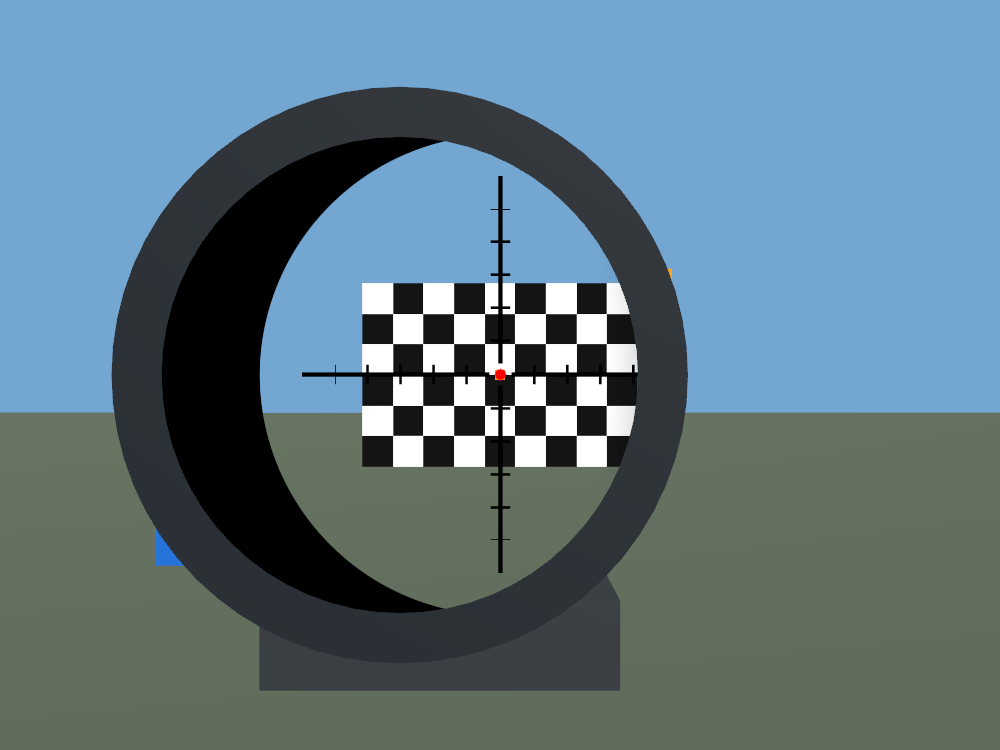
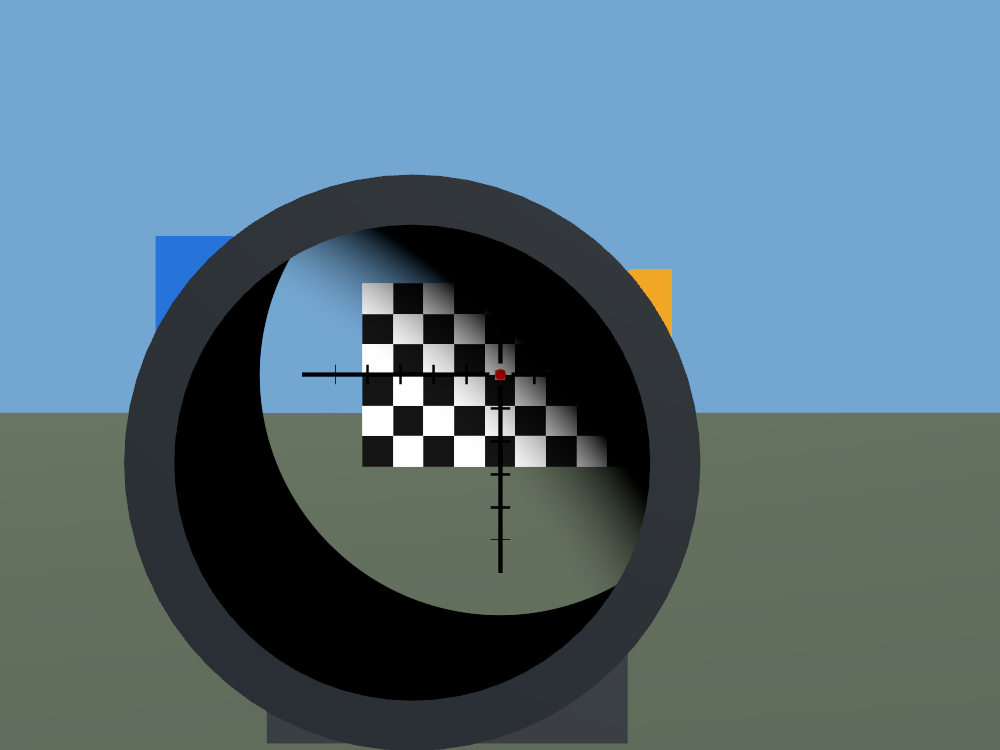
Document AI assistance and illustrate both optical masks

Changed region(s): [[0.093, 0.092, 0.713, 1.0], [0.682, 0.46, 0.713, 0.4907]]

diff --git a/README.md b/README.md
@@ -1,5 +1,7 @@
 # AngularScope
 
+> **AI disclaimer:** Generative AI was used to develop the code and documentation, with human review and iterative testing in Unity and VR. This is an experimental optical approximation, not a physically accurate simulation or a guarantee of compatibility with every project. Review and test it in your own setup before use.
+
 A configurable optical-view shader and a standalone Unity example for scope creators. Includes variable magnification, SFP/FFP reticles, two independent reticle layers, a sharp field stop, and a moving soft eye-box shadow.
 
 Built for Unity's **Built-in Render Pipeline on PC**. The example was tested in Unity 2022.3.22f1. This is a geometric approximation, not a physical ray-traced optical system.
@@ -37,11 +39,18 @@ Only `_ReticleRefMagnification` is changed to `1` in the captures below; the ret
 
 The black etched cross and red illuminated centre are independent texture layers.
 
-## Eye-box shadow
+## Field stop and eye-box shadow
 
-Moving the eye off axis produces a soft shadow. Exit-pupil size can follow magnification or remain fixed for a more forgiving view.
+Two independent masks shape the view:
 
-![Off-axis eye-box shadow](docs/images/eye-box-shadow.png)
+- **Sharp field stop:** a crisp circular boundary limits the apparent angular field. Moving the eye closer makes this boundary visible inside the housing; it is not another physical lens rim.
+- **Soft eye-box shadow:** moving the eye sideways or vertically causes a soft shadow to sweep across the view. Moving too far behind the intended eye relief can also narrow the usable view.
+
+| Sharp field stop | Soft eye-box shadow |
+|---|---|
+| ![Sharp circular field stop with the eye on axis and closer to the lens](docs/images/field-stop.png) | ![Soft eye-box shadow with the eye shifted sideways and upward](docs/images/eye-box-shadow.png) |
+
+Both are actual 1x captures with the same material settings: the left camera is on axis, 9 cm behind the rear lens; the right camera is 12 cm behind it and offset by 7 mm horizontally and vertically. Both masks remain enabled in both images. The housing supplies the physical lens boundary. Exit-pupil size can follow magnification or remain fixed for a more forgiving view; this setting controls the soft shadow, not the sharp field stop.
 
 ## Included example
 
